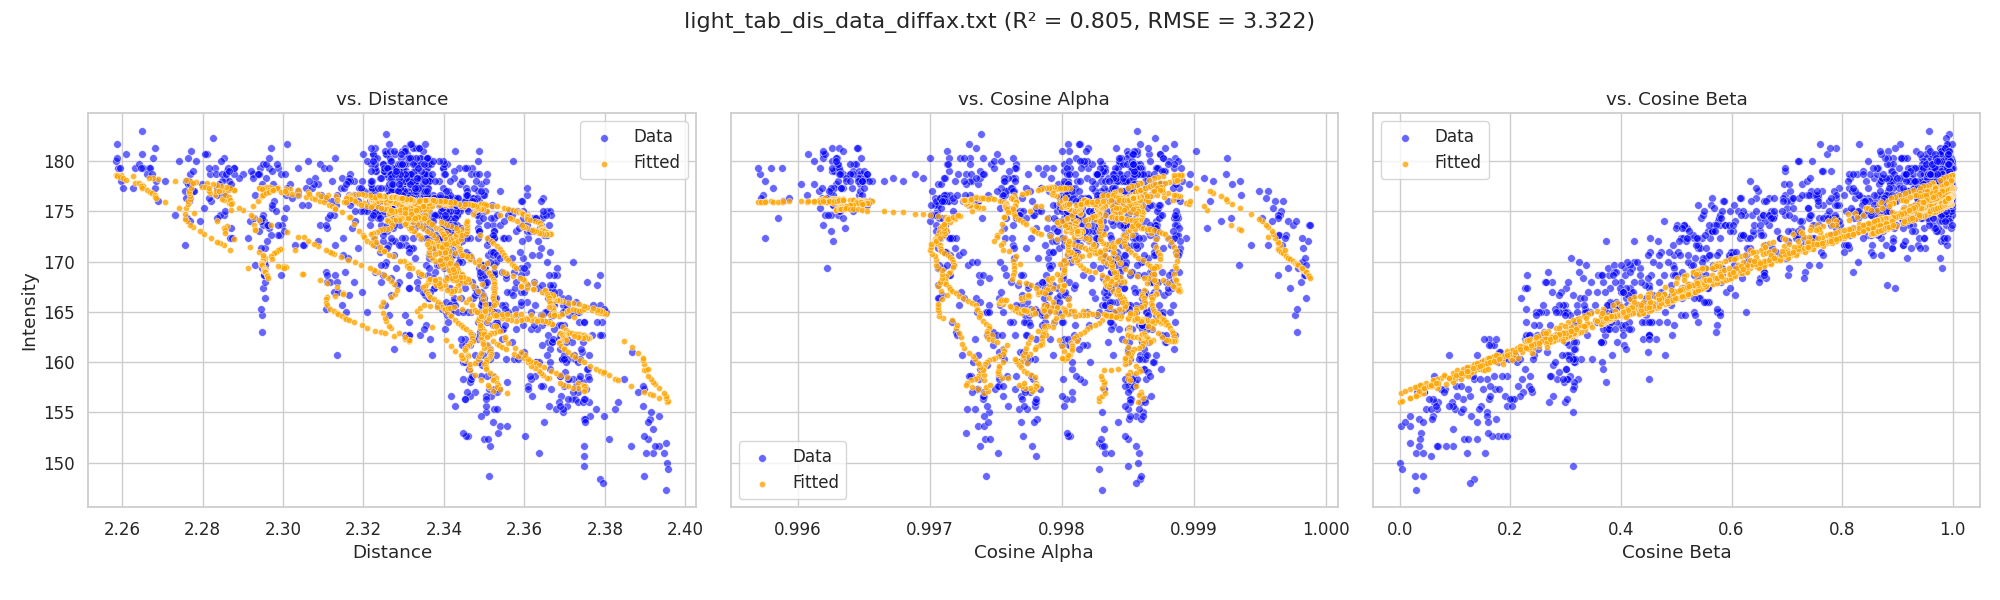
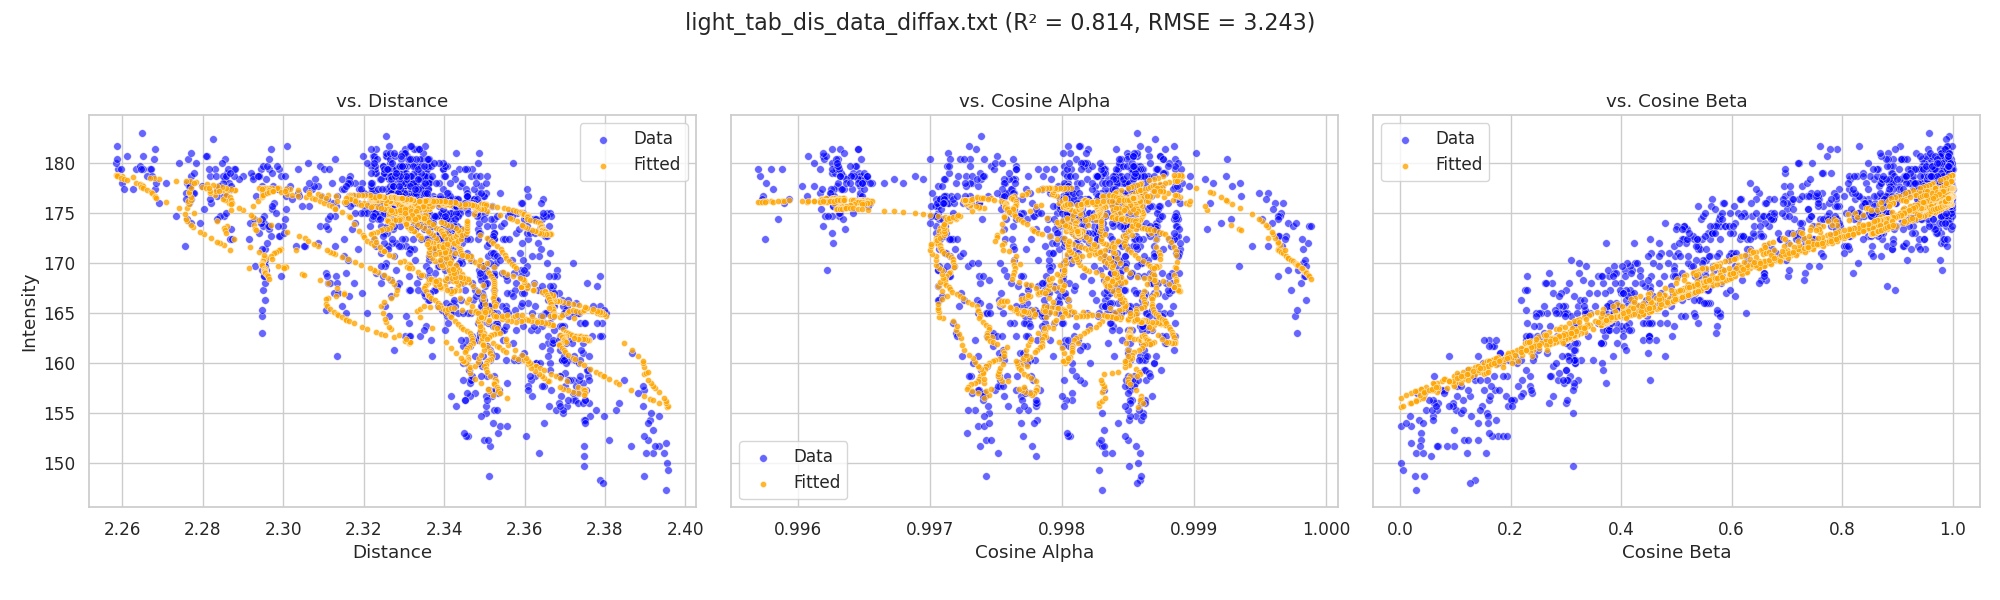
sth

diff --git a/mcap_plot/plot_filter.py b/mcap_plot/plot_filter.py
@@ -497,7 +497,7 @@ from math import log
 sns.set_theme(style="whitegrid", palette="muted", font_scale=1.1)
 
 # Paths
-path = '/media/minhducquach/MiduT73/STUDY/SLAM/Internship/src/mcap_datareader/mcap_plot/txt_new_3'
+path = '/home/manip/ros2_ws/src/mcap_plot/mcap_plot/txt_new_3'
 files_in_dir = os.listdir(path)
 txt_files = [f for f in files_in_dir if f.endswith('.txt')]
 
@@ -512,8 +512,9 @@ def model_func(X, A, B, C, D, E, F, G):
         angular_term = 1.0
     else:
         angular_term = np.exp(-np.log(2) * (np.arccos(beta_clipped) / F)**2)
+        # angular_term = 1.0
 
-    denominator = d**2 + d + np.exp(-B)
+    denominator = d**2 + np.exp(-B)
 
     return (A * angular_term * (G * alpha + D * blinn**E)) / denominator + C
 
@@ -545,9 +546,9 @@ X_all = np.array(X_all).T  # shape: (4, N)
 y_all = np.array(y_all)
 
 # Fit with curve_fit
-initial_guess = [0.881, -1.993, 0.574, 0.001, 16.000, 2.403, 0.000]
+initial_guess = [0.881, -1.993, 0.574, 0.5, 5, 2.403, 0.5]
 bounds = (
-    [0, -np.inf, 0, 0.001, 16, 1e-6, 0],      # lower
+    [0, -np.inf, 0, 0, 1, 1e-6, 0],      # lower
     [np.inf, np.inf, np.inf, 1, 100, np.pi, 1]  # upper
 )
 
@@ -590,5 +591,63 @@ for data_array, filename in datasets:
     plt.tight_layout(rect=[0, 0.03, 1, 0.95])
     plt.savefig(f"imgs/{os.path.splitext(filename)[0]}_fit_cf.png")
     plt.close(fig)
+
+    # --- Residual Plots ---
+    residuals_val = intensity_raw - y_fitted
+
+    fig_res, axs_res = plt.subplots(1, 6, figsize=(24, 5.5)) # Slightly taller for titles
+    fig_res.suptitle(f"Residual Analysis for: {filename} (R² = {r2:.3f})", fontsize=16)
+    
+    # 1. Residuals vs. Fitted
+    axs_res[0].scatter(y_fitted, residuals_val, alpha=0.5, color='green', s=20)
+    axs_res[0].axhline(0, color='red', linestyle='--')
+    axs_res[0].set_xlabel("Fitted Intensity")
+    axs_res[0].set_ylabel("Residuals (Actual - Fitted)")
+    axs_res[0].set_title("Residuals vs. Fitted")
+    axs_res[0].grid(True)
+
+    # 2. Residuals vs. Distance
+    axs_res[1].scatter(d, residuals_val, alpha=0.5, color='green', s=20)
+    axs_res[1].axhline(0, color='red', linestyle='--')
+    axs_res[1].set_xlabel("Distance")
+    axs_res[1].set_ylabel("Residuals") # Keep ylabel if not sharey, or first plot if sharey
+    axs_res[1].set_title("Residuals vs. Distance")
+    axs_res[1].grid(True)
+
+    # 3. Residuals vs. Cosine Alpha
+    axs_res[2].scatter(alpha, residuals_val, alpha=0.5, color='green', s=20)
+    axs_res[2].axhline(0, color='red', linestyle='--')
+    axs_res[2].set_xlabel("Cosine Alpha")
+    axs_res[2].set_ylabel("Residuals")
+    axs_res[2].set_title("Residuals vs. Cosine Alpha")
+    axs_res[2].grid(True)
+
+    # 4. Residuals vs. Cosine Alpha
+    axs_res[3].scatter(beta, residuals_val, alpha=0.5, color='green', s=20)
+    axs_res[3].axhline(0, color='red', linestyle='--')
+    axs_res[3].set_xlabel("Cosine Beta")
+    axs_res[3].set_ylabel("Residuals")
+    axs_res[3].set_title("Residuals vs. Cosine Beta")
+    axs_res[3].grid(True)
+
+    # 4. Residuals vs. Cosine Alpha
+    axs_res[4].scatter(beta, residuals_val, alpha=0.5, color='green', s=20)
+    axs_res[4].axhline(0, color='red', linestyle='--')
+    axs_res[4].set_xlabel("Blinn")
+    axs_res[4].set_ylabel("Residuals")
+    axs_res[4].set_title("Residuals vs. Blinn")
+    axs_res[4].grid(True)
+
+    # 5. Histogram of Residuals
+    axs_res[5].hist(residuals_val, bins=50, alpha=0.7, color='green', edgecolor='black')
+    axs_res[5].axvline(0, color='red', linestyle='--')
+    axs_res[5].set_xlabel("Residual Value")
+    axs_res[5].set_ylabel("Frequency")
+    axs_res[5].set_title("Histogram of Residuals")
+    axs_res[5].grid(True)
+
+    plt.tight_layout(rect=[0, 0.03, 1, 0.95])
+    plt.savefig(f'imgs/{os.path.splitext(filename)[0]}_residuals.png')
+    plt.close(fig_res)
 
 print("Curve fitting complete and plots saved.")
